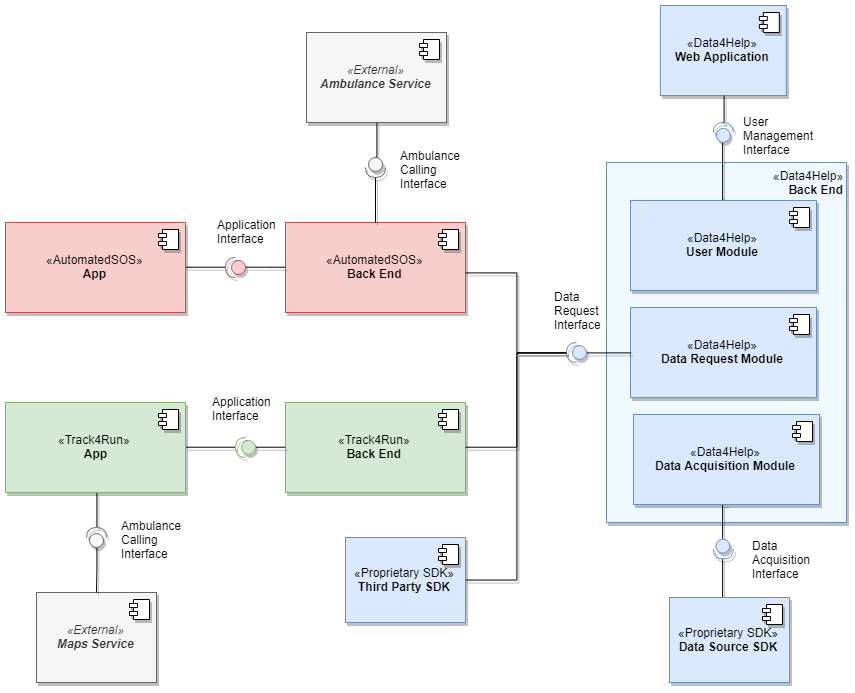
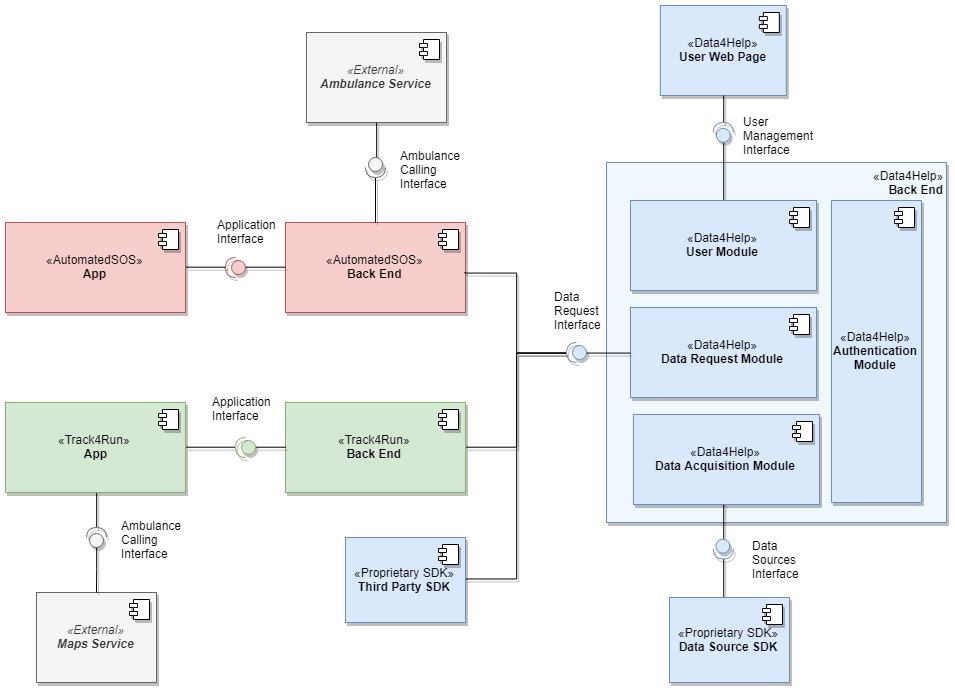
[DD] Added AutomatedSOS and Track4Run components to the documet

diff --git a/DD/sections/architecturalDesign.tex b/DD/sections/architecturalDesign.tex
@@ -1,5 +1,5 @@
 \subsection{Overview}
-As stated above, each subsystem has to accomplish its own goal. In particular, we can see AutomatedSOS and Track4Run as simple, three-tier applications, while Data4Help should display a more complex, scalability-oriented architecture.
+As stated above, each subsystem has to accomplish its own goal. In particular, we can see AutomatedSOS and Track4Run as simple  applications for smart-devices, while Data4Help is a service provider that should implement a more complex, scalability-oriented architecture.
 
 The figure below gives a general overview of a possible implementation of the system.
 
@@ -18,7 +18,7 @@ As displayed in this figure, Data4Help subsystem's services can be accessed by m
 Since the data-sources provide real-time data from the user's devices, it is predictable that this flow of information will soon grow into a huge number of requests, so this subsystem has to be designed to quickly accomplish horizontal scaling and maintain high availability even in extreme conditions.
 For this reason, a Microservice based architecture enforced with Message Queues and scalable databases should be adopted, as will be described in the following sections. Also an API Gateway is used to access all Data4Help interfaces, so to easily manage authentication and load balancing from the very first moment of any request.
 
-AutomatedSOS and Track4Run instead are designed as applications with a thick client (i.e. smart-phone and smart-watch apps), a lightweight back-end server and a storage module. This design has been chosen because it is completely modular on one hand, since the two application's business logic is separated from Data4Help's one, but guarantees on the other hand a fast and reliable service provided by the servers, leaving the full responsibility of the presentation part to the mobile application. The separation of presentation and business logic also guarantees the maintainability of the system and good performances on mobile devices, where power consumption and CPU usage can be an issue.
+AutomatedSOS and Track4Run instead are designed as three-tier applications with a thick client (i.e. smart-phone and smart-watch apps), a lightweight back-end server and a storage module. This design has been chosen because it is completely modular on one hand, since the two application's business logic is separated from Data4Help's one, but guarantees on the other hand a fast and reliable service provided by the servers, leaving the full responsibility of the presentation part to the mobile application. The separation of presentation and business logic also guarantees the maintainability of the system and good performances on mobile devices, where power consumption and CPU usage can be an issue.
 
 \subsection{High Level Architecture}
 
@@ -35,16 +35,24 @@ It must be noted that in this diagram components and \textit{modules} represent 
 \end{figure}
 \FloatBarrier
 
-As can be seen, the Data4Help back-end offers three main functionalities:
+As can be seen, the Data4Help back-end is composed of four major modules:
 
 \begin{itemize}
 	\item \textit{User Management}: provides an interface for managing the user account and configure his data-sources. This interface is exploited by a \textit{Web Application} that can be accessed via web browser.
 	\item \textit{Data Acquisition}: provides the interface for collecting data from data-sources. A proprietary \textit{Data Source SDK} can be offered to external developers to integrate the use of this interface into their software and send data from external devices to Data4Help.
-	\item \textit{User Management}: enables third parties to make requests on the data received by the subsystem. This interface is used by \textit{Track4Run} and \textit{AutomatedSOS} back-ends, but it can also be accessed by any other third party via the dedicated \textit{Third Party SDK}.
+	\item \textit{User Management}: enables third parties to make requests on the data received by the subsystem. This interface is used by \textit{Track4Run} and \textit{AutomatedSOS} back-ends, but it can also be accessed by any other third party via the dedicated \textit{Third Party SDK} that is offered to third-party developers.
+	\item \textit{Authentication}: enables the system to recognize and authenticate incoming requests and associate them to a specific User, Third Party or Data-Source.
 \end{itemize}
 
 The other two back-ends are mainly responsible of exploiting Data4Help's serviced to offer an interface to the user's Application. 
-For AutomatedSOS, an external ambulance calling interface is also needed by the back-end to fulfill its goal, while in Track4Run a Maps Service such as \textit{Google Maps} should be accessed directly from the Application to minimize latency and bandwidth occupation in the communication between the client and the server.
+
+\begin{itemize}
+	\item \textit{AutomatedSOS App Interface}: provides the functions to login a user, modify its threshold and monitor its health state.
+	\item \textit{Track4Run App Interface}: provides the functions to login a user, create and modify a run, search runs, join a run a watch runners.
+\end{itemize}
+
+Finally there are the external services: for AutomatedSOS, an external ambulance calling interface is needed by the back-end to fulfill its goals, while in Track4Run a Maps Service such as \textit{Google Maps} should be accessed directly from the Application to minimize latency and bandwidth occupation in the communication between the client and the server.
+\\
 
 Another definition of the services offered by the system can be found in the figure below, which highlights the dependencies between the Data4Help system and its actors and provides a list of the services consumed internally and externally by the system.
 
@@ -52,30 +60,32 @@ Another definition of the services offered by the system can be found in the fig
 \begin{figure}[!h]
 	\centering
 	\includegraphics[width=0.8\columnwidth]{ComponentDiagrams-Layers.png}
-	\caption{High Level Components}
+	\caption{System Layers Architecture}
 \end{figure}
 \FloatBarrier
 
-\newpage
+The whole system's internal and external services can be divided into five layers:
+\begin{itemize}
+	\item \textit{D4H Internal Services Layer}: these components are used internally by Data4Help to provide highly available services. They mainly deal with microservices management and will not be discussed in the detailed architecture, since there are many available options on the market such as Docker and Kubernetes for container management, MongoDB for data management, RabbitMQ for message queueing etc...
+	
+	\item \textit{D4H External Services Layer}: this layer provides the four main functionalities of Data4Help, which have been discussed in the previous part.
+	
+	\item \textit{Data Acquisition Layer}: also this layer is built upon Data4Help Services. It contains the SDK on which external data-source software can rely to send collected data to Data4Help.
+	
+	\item \textit{Data Consumer Layer}: this layer is built upon Data4Help Services and contains the SDK that can be used by third parties to make API requests, as well ad the whole AutomatedSOS and Track4Run back-ends, which are in this sense \textit{consumers} of the Data4Help services.
+	
+	\item \textit{Presentation Layer}: can be built upon the previous layers, in the case of AutomatedSOS and Track4Run, this layer represents the mobile application, which provides a GUI to the end user. Also data-sources and external third-parties can offer a presentation layer to their end-users.
+\end{itemize}
+
+
 \subsection{Component View}
 
 
 \subsubsection{Data4Help}
 
-When considering the architecture for Data4Help, the first thing to take in account is scaling and availability. Data-sources can produce a lot of traffic, and vital services built on top of this subsystem, such as AutomatedSOS, bring the need for the system to handle all the data without losses, latency or service unavailability.
-Bearing this in mind, the general idea of this subsystem's design is to exploit the new patterns of microservices and messages queues. 
+When considering the architecture for Data4Help, the first thing to take into account is scaling and availability. The main focus of this design is that every service should be replicable in any desired number of instances without the need of changing other parts of the system. For this to be possible, the system should make use of a microservice architecture and message queues.
 
-The main focus of this design is that every service should be replicable in any desired number of instances (\textit{horizontal scaling}) without the need of changing other parts of the system. For this to be possible, the system must be provided with the following capabilities:
-
-\begin{itemize}
-	\item \textit{Container Environment}
-	\item \textit{Container Orchestration}
-	\item \textit{Load Balancing}
-\end{itemize}
-
-Future developments of the system can also add performance monitoring services, to test in real-time the stress level of the system and eventually deploy new instances of some services where needed.
-
-This said, here is a detailed view of the components of this subsystem: each service is to be considered as independently deployed in a container, which is managed by the \textit{orchestrator}. For the sake of simplicity, only the interaction between developed components is highlighted, while the components dedicated to load balancing, orchestration and services deployment are considered to be already present as part of the \textit{API Gateway}.
+This said, here is a detailed view of the components of this subsystem: each service is to be considered as independently deployed in a \textit{container}, which is managed by the \textit{orchestrator}. For the sake of simplicity, only the interaction between developed components is highlighted, while the components dedicated to load balancing, orchestration and services deployment are considered to be at an underlying level (see \textit{Figure 3: System Layers Architecture} in \textit{Section 2.2}).
 
 
 \FloatBarrier
@@ -111,13 +121,22 @@ All other components shall use synchronous protocols, such as RESTful APIs.
 
 \subsubsection{AutomatedSOS}
 
+\FloatBarrier
 \begin{figure}[!h]
 	\centering
 	\includegraphics[width=\columnwidth]{ComponentDiagrams-AutoSOS.png}
 	\caption{AutomatedSOS Components}
 \end{figure}
-
 \FloatBarrier
+
+\begin{itemize}
+	\item \textbf{Client Application:} application on user's device responsible of providing a graphical interface to the user and of interacting with the back end  services of AutomatedSOS.
+	\item \textbf{Threshold Setting Service:} gives to the user the possibility to change the default threshold values of his tracked parameters and save them in the dedicated database. 
+	\item \textbf{Data Analytics Service:} allows the user to check the aggregated statistics about the data collected until then with a given granularity. 
+	\item \textbf{Login Service:} responsible of authenticating the user by using his Data4Help credentials using the SDK services provided by the Third Party SDK component.
+	\item \textbf{Monitoring Service:} is responsible of monitoring the data coming from Data4Help and, whenever a threshold is exceeded, interacting with the external Ambulance Calling Interface which in turn will communicate to the ambulances the location of the user in danger.
+	\item \textbf{Third Party SDK:} communicates with Data4Help by using his Authentication and Data Request interfaces.
+\end{itemize}
 
 
 \subsubsection{Track4Run}
@@ -130,6 +149,15 @@ All other components shall use synchronous protocols, such as RESTful APIs.
 \end{figure}
 \FloatBarrier
 
+\begin{itemize}
+	\item \textbf{Client Application:} application that runs on user's device responsible of providing a graphical interface to the user and of interacting with the back end services of Track4Run. It also interacts with an external Maps Interface in order to retrieve the maps that will be used by the application.
+	\item \textbf{Run Creation and Management Service:} gives the user the possibility to create, edit and delete a run event by interacting with the Run database.
+	\item \textbf{Run Search Service:} gives the user the possibility to browse all the created run events stored in the Run database.
+	\item \textbf{Spectator Service:} is responsible of retrieving runners position during the run and then forwarding it to the Client Application which in turn will display the positions of the runners on a map.
+	\item \textbf{Enrollment Service:} allows the user to enroll in a created run event. In this way he will be added to the list of participants.
+	\item \textbf{Third Party SDK:} communicates with Data4Help by using his Authentication and Data Request interfaces.
+	\item \textbf{Login Service:} responsible of authenticating the user by using his Data4Help credentials using the SDK services provided by the Third Party SDK component.
+\end{itemize}
 
 
 \subsection{Deployment View}
